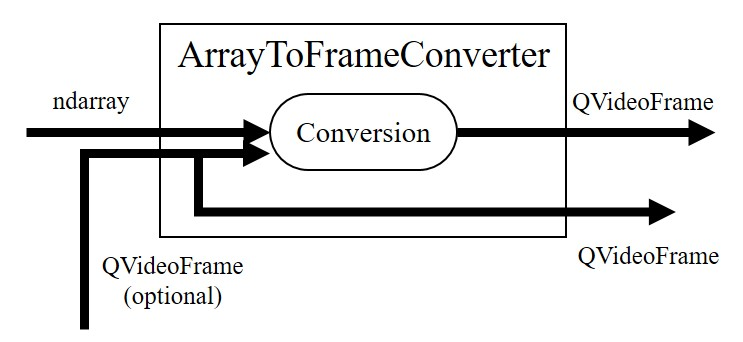
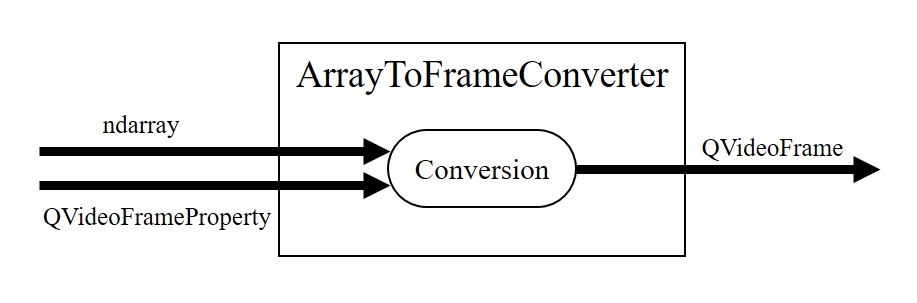
feat: add QVideoFrameProperty
Use new class in other classes

diff --git a/araviq6/videostream.py b/araviq6/videostream.py
@@ -72,6 +72,11 @@ from araviq6.array2qvideoframe import array2qvideoframe
 from araviq6.qt_compat import QtCore, QtGui, QtMultimedia
 from typing import Optional
 
+try:
+    from typing import TypeAlias
+except ImportError:
+    from typing_extensions import TypeAlias
+
 
 __all__ = [
     "VideoFrameWorker",
@@ -93,7 +98,10 @@ for name, qimage_format in qimage2ndarray.qimageview_python.FORMATS.items():
         qimage_format.code = getattr(QtGui.QImage, name)
 
 
-QVideoFrame = QtMultimedia.QVideoFrame
+QVideoFrame: TypeAlias = QtMultimedia.QVideoFrame
+MapMode: TypeAlias = QtMultimedia.QVideoFrame.MapMode
+RotationAngle: TypeAlias = QtMultimedia.QVideoFrame.RotationAngle
+QVideoFrameFormat: TypeAlias = QtMultimedia.QVideoFrameFormat
 
 
 class VideoFrameWorker(QtCore.QObject):
@@ -312,11 +320,11 @@ class QVideoFrameProperty:
 
     def __init__(
         self,
-        mapMode: QVideoFrame.MapMode = QVideoFrame.MapMode.NotMapped,
+        mapMode: MapMode = MapMode.NotMapped,
         startTime: int = -1,
         endTime: int = -1,
         mirrored: bool = False,
-        rotationAngle: QVideoFrame.RotationAngle = QVideoFrame.RotationAngle.Rotation0,
+        rotationAngle: RotationAngle = RotationAngle.Rotation0,
         subtitleText: str = "",
     ):
         self.mapMode = mapMode
@@ -330,7 +338,7 @@ class QVideoFrameProperty:
     def fromVideoFrame(cls, frame: QVideoFrame):
         return cls(*[getattr(frame, attr)() for attr in cls.__slots__])
 
-    def applyToVideoFrame(self, frame: QVideoFrame):
+    def setToVideoFrame(self, frame: QVideoFrame):
         frame.map(self.mapMode)
         frame.setStartTime(self.startTime)
         frame.setEndTime(self.endTime)
@@ -350,22 +358,23 @@ class FrameToArrayConverter(QtCore.QObject):
 
     When video frame is passed to :meth:`convertVideoFrame`,
     :class:`FrameToArrayConverter` first converts it to ``QImage`` and then
-    to numpy array using :meth:`imageToArray`. Resulting array is emitted to
-    :attr:`arrayConverted` with original frame.
+    to numpy array using :meth:`imageToArray`. :attr:`arrayConverted` emits
+    resulting array and :class:`QVideoFrameProperty`.
 
     Invalid video frame is converted to 3D empty array.
 
     """
 
-    arrayConverted = QtCore.Signal(np.ndarray, QVideoFrame)
+    arrayConverted = QtCore.Signal(np.ndarray, QVideoFrameProperty)
 
     @QtCore.Slot(QVideoFrame)
     def convertVideoFrame(self, frame: QVideoFrame):
         """
         Convert *frame* to numpy array and emit to :attr:`arrayConverted`.
 
-        Video frame is converted using using :meth:`imageToArray`. Result array
-        and *frame* are emitted to :meth:`arrayConverted`.
+        Video frame is converted using using :meth:`imageToArray`, and its
+        properties are wrapped by :class:`QVideoFrameProperty`. Converted array
+        frame property are emitted to :meth:`arrayConverted`.
 
         """
         qimg = frame.toImage()
@@ -373,7 +382,7 @@ class FrameToArrayConverter(QtCore.QObject):
             array = self.imageToArray(qimg).copy()  # copy to detach reference
         else:
             array = np.empty((0, 0, 0), dtype=np.uint8)
-        self.arrayConverted.emit(array, frame)
+        self.arrayConverted.emit(array, QVideoFrameProperty.fromVideoFrame(frame))
 
     def imageToArray(self, image: QtGui.QImage) -> npt.NDArray[np.uint8]:
         """
@@ -395,60 +404,37 @@ class ArrayToFrameConverter(QtCore.QObject):
 
        ArrayToFrameConverter structure
 
-    Conversion is done by passing an array (and optionally, its original frame)
-    to :meth:`convertArray` slot and listening to :attr:`frameConverted` signal.
-    If an original frame is passed, it is used to set the properties of converted
-    frame.
-
-    The :attr:`frameConverted` signal emits two QVideoFrame objects; the first
-    one is the video frame converted from the array, and the second is the
-    original video frame. If original video frame was not passed to
-    :meth:`convertArray`, invalid frame is emitted instead.
+    Conversion is done by passing an array to :meth:`convertArray` slot and
+    listening to :attr:`frameConverted` signal. Frame properties can be set by
+    passing optional :class:`QVideoFrameProperty` with the array.
 
     """
 
-    frameConverted = QtCore.Signal(QVideoFrame, QVideoFrame)
+    frameConverted = QtCore.Signal(QVideoFrame)
 
     @QtCore.Slot(np.ndarray, QVideoFrame)
     def convertArray(
         self,
         array: npt.NDArray[np.uint8],
-        frame: Optional[QVideoFrame] = None,
+        frameProperty: QVideoFrameProperty = QVideoFrameProperty(),
     ):
         """
         Convert *array* to ``QvideoFrame`` and emit to :attr:`frameConverted`.
 
-        Additional *frame* argument can be passed to set the properties (e.g.,
-        starting time and ending time) of the converted frame. This is useful
-        when *frame* is the original frame from the source and *array* is its
-        image processing result.
+        Valid array is converted using :meth:`arrayToFrame` with properties
+        defined by *frameProperty*. Empty array is converted to invalid video
+        frame.
 
-        Valid array is converted using :meth:`arrayToFrame`. Result frame and
-        original *frame* are emitted to :attr:`frameConverted`.
-
-        If *frame* is None, is interpreted as an invalid frame with invalid
-        format. If *array* is empty, it is converted to invalid video frame, its
-        format following that of *frame*.
         """
-        if frame is None:
-            invalidFormat = QVideoFrameFormat(
-                QtCore.QSize(-1, -1),
-                QVideoFrameFormat.PixelFormat.Format_Invalid,
-            )
-            frame = QVideoFrame(invalidFormat)
-
         if array.size != 0:
-            newFrame = self.arrayToFrame(array)
+            frame = self.arrayToFrame(array)
         else:
             frameFormat = QVideoFrameFormat(
-                QtCore.QSize(-1, -1), frame.surfaceFormat().pixelFormat()
+                QtCore.QSize(-1, -1), QVideoFrameFormat.PixelFormat.Format_Invalid
             )
-            newFrame = QVideoFrame(frameFormat)
-
-        newFrame.map(frame.mapMode())
-        newFrame.setStartTime(frame.startTime())
-        newFrame.setEndTime(frame.endTime())
-        self.frameConverted.emit(newFrame, frame)
+            frame = QVideoFrame(frameFormat)
+        frameProperty.setToVideoFrame(frame)
+        self.frameConverted.emit(frame)
 
     def arrayToFrame(self, array: npt.NDArray[np.uint8]) -> QVideoFrame:
         """
@@ -616,12 +602,14 @@ class NDArrayVideoPlayer(QtMultimedia.QMediaPlayer):
     """
     Video player which emits numpy array.
 
-    :class:`NDArrayVideoPlayer` emits the the numpy array and its original frame
-    to :attr:`arrayChanged` signal. User may use this class for convenience, or
-    define own pipeline.
+    When playing, :class:`NDArrayVideoPlayer` converts the frame to numpy array
+    and :class:`QVideoFrameProperty`, and emits them to :attr:`arrayChanged`
+    signal.
+
+    User may use this class for convenience, or define own pipeline.
     """
 
-    arrayChanged = QtCore.Signal(np.ndarray, QVideoFrame)
+    arrayChanged = QtCore.Signal(np.ndarray, QVideoFrameProperty)
 
     def __init__(self, parent=None):
         super().__init__(parent)
@@ -639,12 +627,14 @@ class NDArrayMediaCaptureSession(QtMultimedia.QMediaCaptureSession):
     """
     Capture session which emits numpy array.
 
-    :class:`NDArrayMediaCaptureSession` emits the the numpy array and its
-    original frame to :attr:`arrayChanged` signal. User may use this class for
-    convenience, or define own pipeline.
+    When capturing, :class:`NDArrayMediaCaptureSession` converts the frame to
+    numpy array and :class:`QVideoFrameProperty`, and emits them to
+    :attr:`arrayChanged` signal.
+
+    User may use this class for convenience, or define own pipeline.
     """
 
-    arrayChanged = QtCore.Signal(np.ndarray, QVideoFrame)
+    arrayChanged = QtCore.Signal(np.ndarray, QVideoFrameProperty)
 
     def __init__(self, parent=None):
         super().__init__(parent)

diff --git a/araviq6/tests/test_videostream.py b/araviq6/tests/test_videostream.py
@@ -8,6 +8,7 @@ import numpy as np
 import qimage2ndarray  # type: ignore[import]
 from araviq6 import (
     array2qvideoframe,
+    QVideoFrameProperty,
     FrameToArrayConverter,
     ArrayToFrameConverter,
     get_samples_path,
@@ -130,14 +131,19 @@ def test_ArrayToFrameConverter(qtbot):
     sourceFrame = playerSink.videoFrame()
     with qtbot.waitSignal(
         A2FConverter.frameConverted,
-        check_params_cb=lambda frame, _: not frame.isValid()
-        and frame.surfaceFormat().pixelFormat()
-        == sourceFrame.surfaceFormat().pixelFormat(),
+        check_params_cb=lambda frame: not frame.isValid()
+        and frame.startTime() != -1
+        and frame.endTime() != -1,
     ):
-        A2FConverter.convertArray(np.empty((0, 0, 0), dtype=np.uint8), sourceFrame)
+        A2FConverter.convertArray(
+            np.empty((0, 0, 0), dtype=np.uint8),
+            QVideoFrameProperty.fromVideoFrame(sourceFrame),
+        )
 
     with qtbot.waitSignal(
         A2FConverter.frameConverted,
-        check_params_cb=lambda frame, _: not frame.isValid(),
+        check_params_cb=lambda frame: not frame.isValid()
+        and frame.startTime() == -1
+        and frame.endTime() == -1,
     ):
         A2FConverter.convertArray(np.empty((0, 0, 0), dtype=np.uint8))
